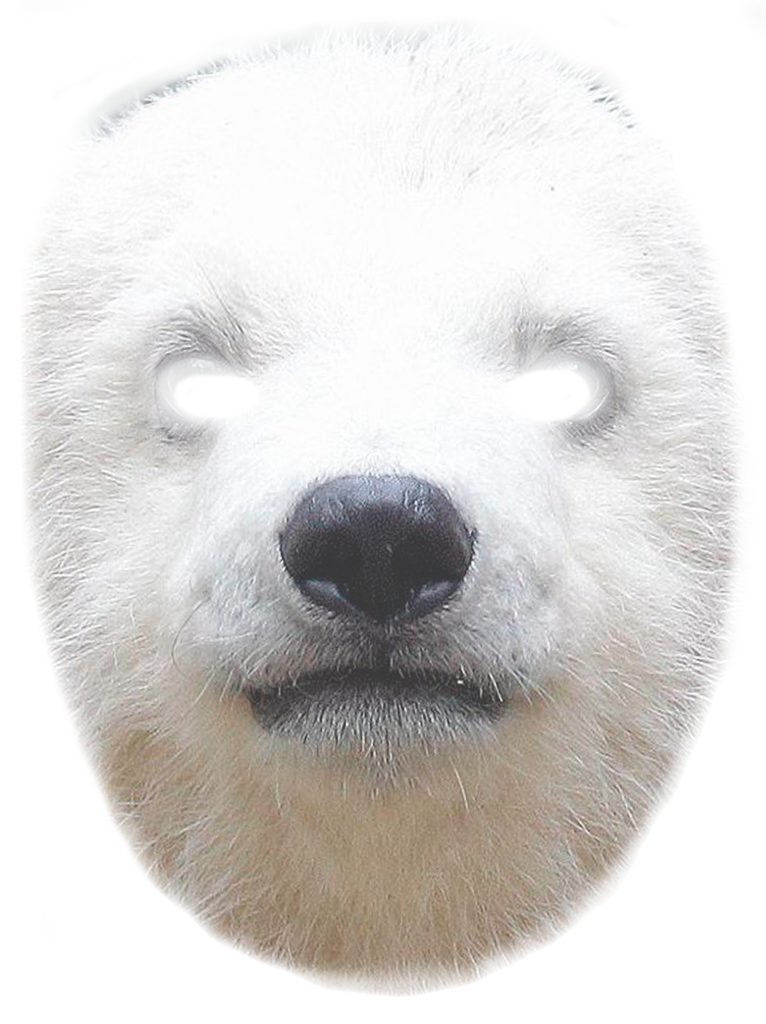
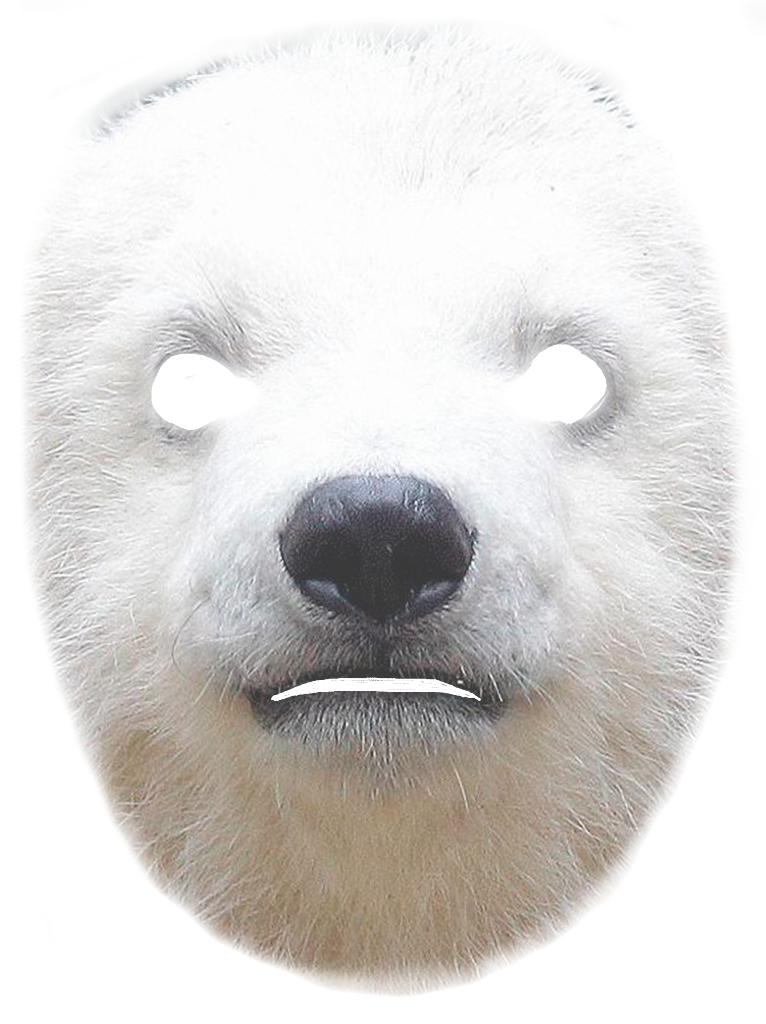
Добавил закрытость контура, чуть поменял модель

Changed region(s): [[0.3603, 0.6562, 0.6305, 0.6875], [0.6906, 0.3125, 0.8107, 0.4062], [0.1802, 0.3438, 0.3003, 0.4375]]

diff --git a/src/ru/flightlabs/masks/model/ImgLabModel.java b/src/ru/flightlabs/masks/model/ImgLabModel.java
@@ -37,16 +37,25 @@ public class ImgLabModel implements SimpleModel {
         this.points = points.toArray(new Point[0]);
         //Utils.upsideDown(this.points);
         int[] liness = {17,5,5,4,5,6,6,12,8};
+        boolean[] closedLiness = {false, false, false, false, false, true, true, true, true};
         List<Line> lines = new ArrayList<Line>();
+        int lineCount = 0;
         int j = 0;
         for (int lineLength : liness) {
+            int startPoint = j;
+            int endPoint = j;
             for (int i = 1; i < lineLength; i++) {
+                endPoint = j + 1;
                 if (j + 1 < points.size()) {
-                    lines.add(new Line(j , j + 1, true));
+                    lines.add(new Line(j, j + 1, true));
                 }
                 j++;
             }
+            if (closedLiness[lineCount]) {
+                lines.add(new Line(startPoint, endPoint, true));
+            }
             j++;
+            lineCount++;
         }
         this.lines = lines.toArray(new Line[0]);
     }
